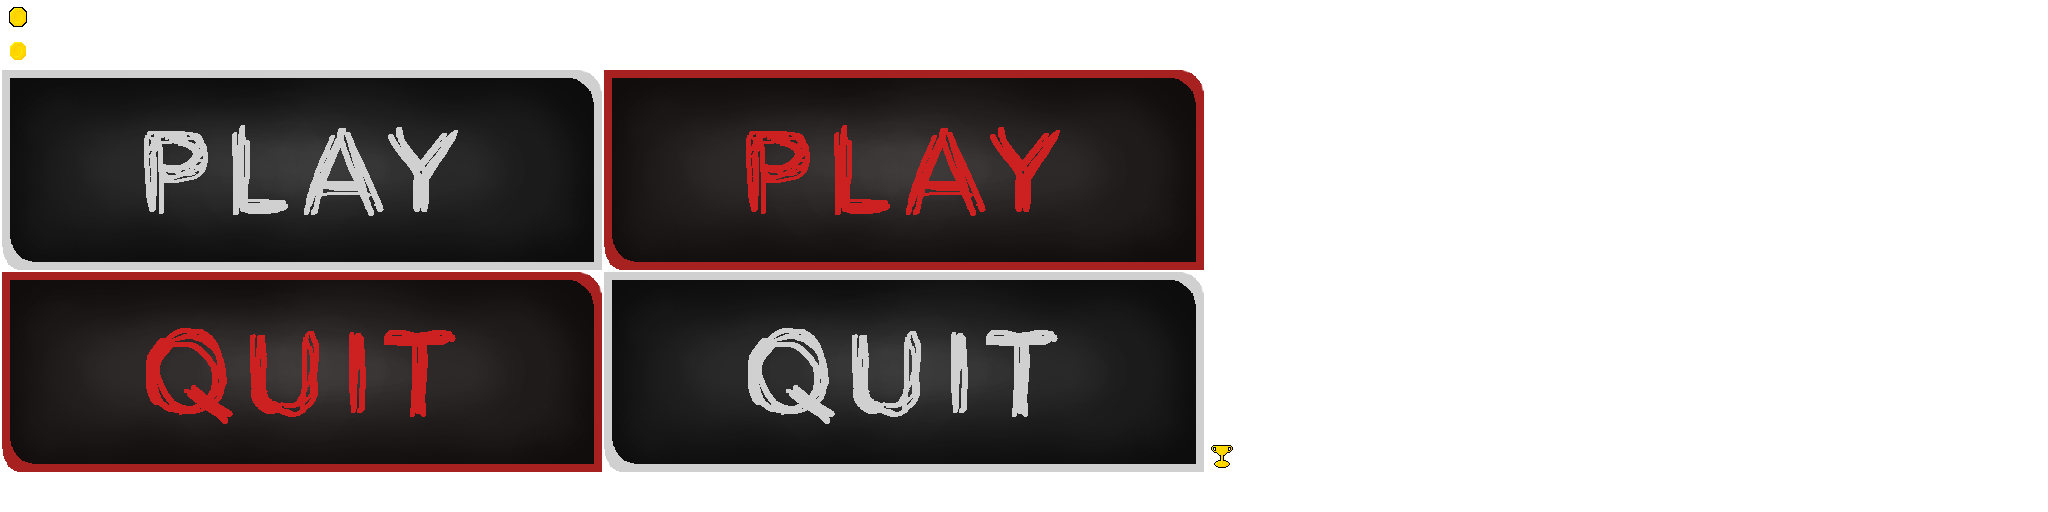
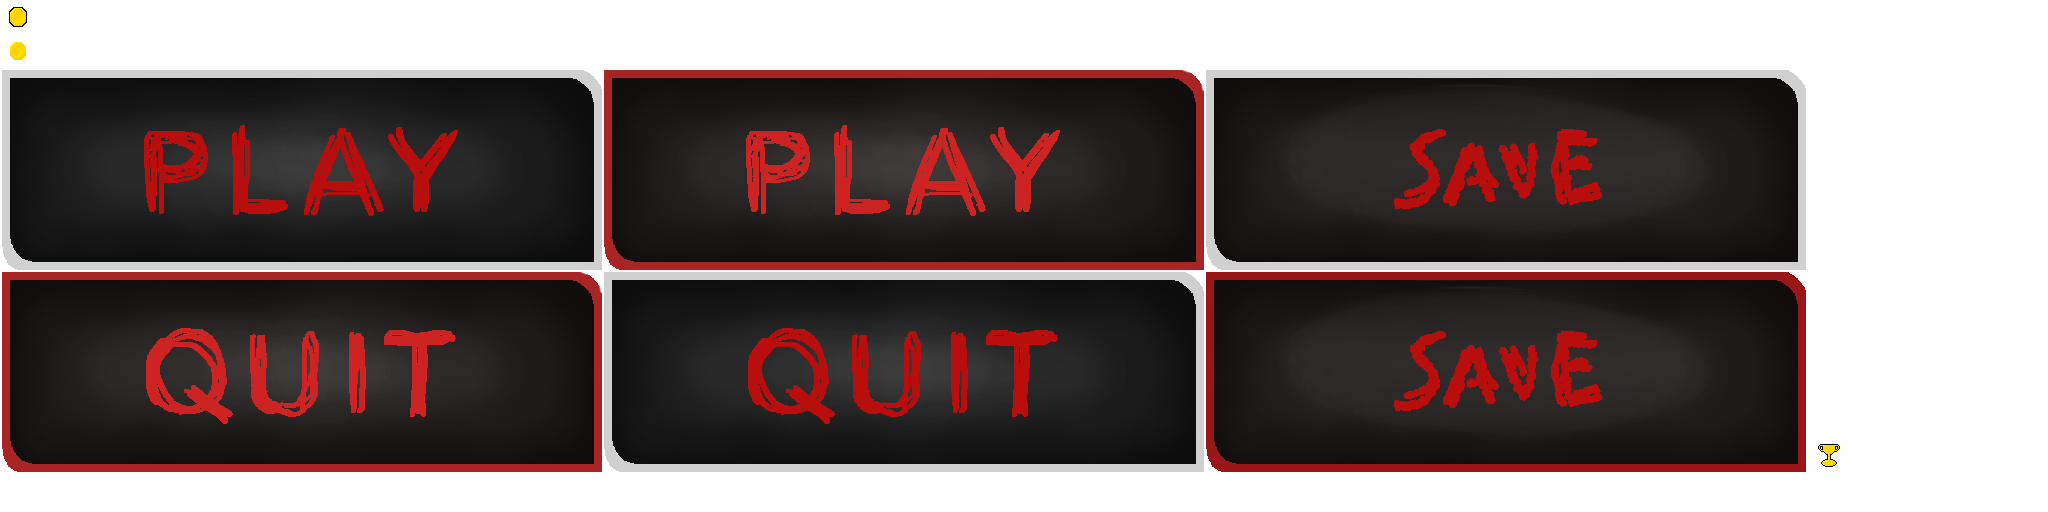
can save file and they are loaded not selectable

Changed region(s): [[0.5625, 0.125, 0.9062, 0.9375], [0.3438, 0.625, 0.5312, 0.8125], [0.0625, 0.25, 0.2188, 0.4375]]

diff --git a/deltaducks/core/src/com/ducks/managers/SaveManager.java b/deltaducks/core/src/com/ducks/managers/SaveManager.java
@@ -1,0 +1,97 @@
+package com.ducks.managers;
+
+import com.badlogic.gdx.utils.Json;
+import com.badlogic.gdx.utils.JsonValue;
+import com.ducks.tools.SaveData;
+import com.ducks.ui.Hud;
+
+import java.io.*;
+import java.nio.file.Files;
+import java.nio.file.Path;
+import java.nio.file.Paths;
+import java.text.SimpleDateFormat;
+import java.time.LocalDate;
+import java.time.LocalDateTime;
+import java.time.format.DateTimeFormatter;
+import java.util.ArrayList;
+import java.util.HashMap;
+import java.util.Map;
+import java.util.Scanner;
+import java.util.stream.Stream;
+
+public class SaveManager {
+    private static boolean inited = false;
+    private static HashMap<String, SaveData> data;
+    private static final Path SAVE_LOCATION = Paths.get("./Saves");
+    public static void Initialize() {
+        inited = true;
+        data = new HashMap<>();
+        LoadSaves();
+    }
+    public static void LoadSaves() {
+        if(!Files.exists(SAVE_LOCATION)) {
+            try{
+                Files.createDirectories(SAVE_LOCATION);
+            }
+            catch (Exception e){
+
+            }
+        }
+
+        File folder = new File(String.valueOf(SAVE_LOCATION));
+
+        File[] listOfFiles = folder.listFiles();
+
+        assert listOfFiles != null;
+
+        for (File file : listOfFiles) {
+            if (file.isFile()) {
+                String name = file.getName();
+                name = name.substring(0, name.length() - 6);
+                try{
+                    File myObj = new File(file.getPath());
+                    Scanner myReader = new Scanner(myObj);
+                    while (myReader.hasNextLine()) {
+                        String txt = myReader.nextLine();
+                        Json j = new Json();
+                        SaveData save = j.fromJson(SaveData.class, txt);
+                        int i = 0;
+                        data.put(name, save);
+                    }
+                    myReader.close();
+                }
+                catch (Exception e) {
+
+                }
+            }
+        }
+    }
+
+    public static void Save(Hud hud) {
+        LocalDateTime now = LocalDateTime.now();
+        DateTimeFormatter formatter = DateTimeFormatter.ofPattern("dd-MM-yyyy, HH-mm");
+
+        String fileName = String.format("/Save " +  (data.size() + 1) + " " + now.format(formatter) + ".json");
+        try {
+            FileWriter out = new FileWriter(SAVE_LOCATION.toString() + fileName);
+            SaveData save = new SaveData();
+            save.gold = Hud.getGold();
+            save.health = Hud.getHealth();
+            save.xp = Hud.getScore();
+            save.time = hud.getTimer();
+            Json j = new Json();
+            String d = j.toJson(save);
+            out.write(d);
+            out.close();
+        }
+        catch (Exception e) {
+
+        }
+    }
+
+    private static void tryInit() {
+        if(!inited) {
+            Initialize();
+        }
+    }
+}

diff --git a/deltaducks/core/src/com/ducks/ui/TablePauseMenu.java b/deltaducks/core/src/com/ducks/ui/TablePauseMenu.java
@@ -40,9 +40,26 @@ public class TablePauseMenu extends Stage {
             }
         });
 
+        // Save button
         table.add(button);
         table.row();
+        style = new Button.ButtonStyle();
+        style.up = ui.newDrawable("save_up");
+        style.over = ui.newDrawable("save_up", Color.LIGHT_GRAY);
+        style.down = ui.newDrawable("save_down");
+        button = new Button(style);
 
+        // Unpause and go back to game
+        button.addListener(new ClickListener() {
+            @Override
+            public void clicked (InputEvent event, float x, float y) {
+                save();
+                togglePause();
+            }
+        });
+
+        table.add(button);
+        table.row();
         style = new Button.ButtonStyle();
         style.up = ui.newDrawable("exit_up");
         style.over = ui.newDrawable("exit_up", Color.LIGHT_GRAY);

diff --git a/deltaducks/core/src/com/ducks/screens/MainGameScreen.java b/deltaducks/core/src/com/ducks/screens/MainGameScreen.java
@@ -38,7 +38,7 @@ public class MainGameScreen implements Screen {
 
     private OrthographicCamera gameCam;
     private Viewport gamePort;
-    private Hud hud;
+    private static Hud hud;
     private static TablePauseMenu pauseMenu;
 
     private TmxMapLoader mapLoader;
@@ -163,6 +163,9 @@ public class MainGameScreen implements Screen {
         isPaused = !isPaused;
         Gdx.input.setInputProcessor(isPaused ? pauseMenu : null);
         Gdx.input.setCursorCatched(!isPaused);
+    }
+    public static void save(){
+        SaveManager.Save(hud);
     }
 
     /**

diff --git a/deltaducks/core/src/com/ducks/DeltaDucks.java b/deltaducks/core/src/com/ducks/DeltaDucks.java
@@ -2,6 +2,7 @@ package com.ducks;
 
 import com.badlogic.gdx.Game;
 import com.badlogic.gdx.graphics.g2d.SpriteBatch;
+import com.ducks.managers.SaveManager;
 import com.ducks.screens.MainMenuScreen;
 
 /***
@@ -33,6 +34,8 @@ public class DeltaDucks extends Game {
 	 */
 	@Override
 	public void create () {
+		SaveManager.Initialize();
+
 		batch = new SpriteBatch();
 		this.setScreen(new MainMenuScreen(this));
 	}

diff --git a/deltaducks/core/src/com/ducks/tools/SaveData.java b/deltaducks/core/src/com/ducks/tools/SaveData.java
@@ -1,0 +1,13 @@
+package com.ducks.tools;
+
+public class SaveData {
+    public Integer xp, gold;
+    public Float health, time;
+    public SaveData() {
+        xp = 0;
+        gold = 0;
+        health = 0.0f;
+        time = 0.0f;
+    }
+
+}
